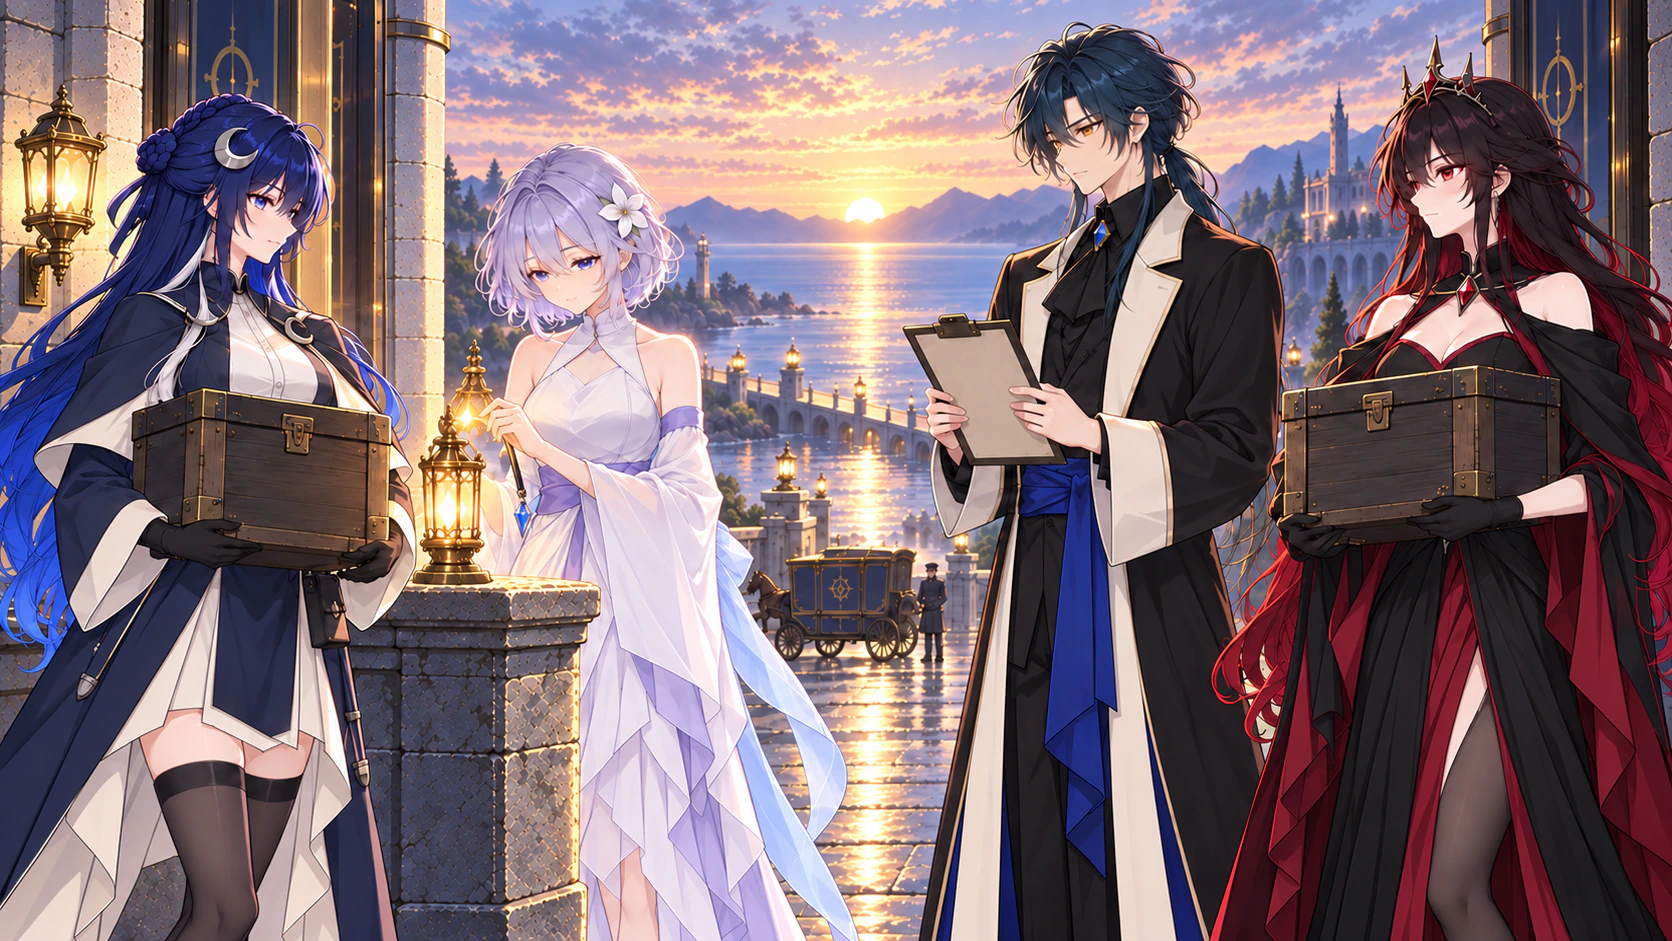
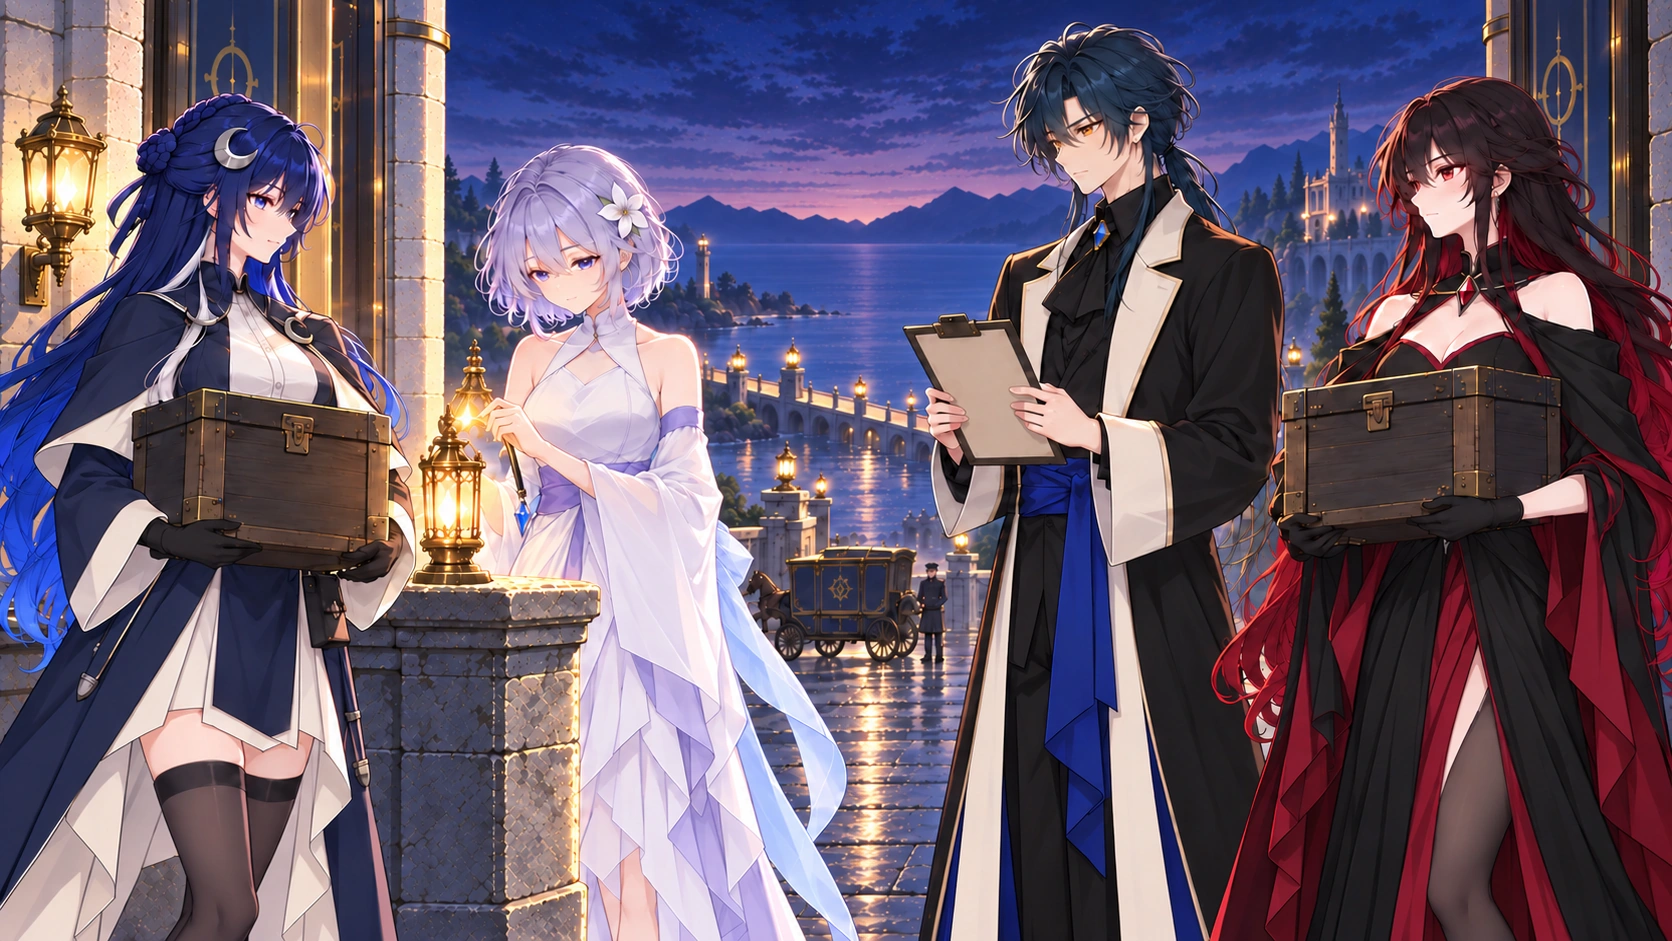
Repair A CG continuity and ending exterior bindings
Replace the three reviewed runtime WebP images without re-encoding, update only their byte/hash contracts, suppress the seven-crystal CG for incomplete-core scenes, and retain the exterior backdrop for ending turns 15-18. Add four focused presentation regressions. Preserve authored prose, rules, saves, loading transitions, B articulated gait, C, and root packaging.

Verified all 787 source files, exact six-path preimages, 26,496 state comparisons, 57 GAL samples, image decode and remote-restored backups. Full checks pass: A 328 plus 9 existing skips, B 106, C 141. Root build and 377 static references pass; B/C output is byte-identical to the parent. Candidate-only fast-forward; browser acceptance remains a separate review.

diff --git a/apps/a/test/story-cg-continuity-r1.test.js b/apps/a/test/story-cg-continuity-r1.test.js
@@ -1,0 +1,59 @@
+import test from 'node:test';
+import assert from 'node:assert/strict';
+import fs from 'node:fs';
+import vm from 'node:vm';
+import { DIALOGUES, ENEMIES, FLOORS, GRID_SIZE, ITEMS } from '../src/game/data.js';
+import { applyDemoTenFloorContent } from '../src/game/demo-10-floor-content.js';
+import { applyDemoTwentyFloorContent } from '../src/game/demo-20-floor-content.js';
+import { applyDemoThirtyFloorContent } from '../src/game/demo-30-floor-content.js';
+import { resolveStoryDialogue, CORE_BOSS_IDS } from '../src/game/story-dialogue-facts.js';
+import { createGalPreviewStoryState, GAL_PREVIEW_ORDER } from '../src/game/story-preview-context.js';
+const c={enemies:ENEMIES,floors:FLOORS,dialogues:DIALOGUES,gridSize:GRID_SIZE,items:ITEMS};
+applyDemoTenFloorContent(c);applyDemoTwentyFloorContent(c);applyDemoThirtyFloorContent(c);
+const main=fs.readFileSync(new URL('../src/main.js',import.meta.url),'utf8');
+const ctx=vm.createContext({document:{body:{dataset:{theme:'night'}}}});
+const tables=['GAL_BACKDROPS','GAL_DIALOGUE_BACKDROPS','GAL_FLOOR_BACKDROPS'].map(n=>main.match(new RegExp(`const ${n} = Object\\.freeze\\(\\{[\\s\\S]*?\\n\\}\\);`))[0]).join('\n');
+const names=['galBackdropFor','galCgFor','rememberGalLine'];
+const fns=names.map(n=>main.match(new RegExp(`function ${n}\\([\\s\\S]*?\\n\\}`))[0]).join('\n');
+vm.runInContext(`const galArtUrl=p=>p;const galHistory=[];const GAL_HISTORY_LIMIT=600;let saves=0;const persistGalOnlyHistory=()=>{saves++};${tables}\n${fns}\nObject.assign(this,{galBackdropFor,galCgFor,rememberGalLine,galHistory});`,ctx);
+const state=n=>({cores:n,floorStates:[{defeatedBossIds:CORE_BOSS_IDS.slice(0,n)}],council:{completed:false}});
+const resolve=(id,s,n=30)=>resolveStoryDialogue(id,DIALOGUES[id],s,{floors:FLOORS.slice(0,n)});
+const plain=d=>JSON.parse(JSON.stringify(d, (k,v)=>['cg','cgHold','backdrop'].includes(k)?undefined:v));
+
+test('all integer core counts 0..7 gate the seven-crystal CG without mutating state or authored source',()=>{
+ const original=JSON.stringify(DIALOGUES.queenPhaseDemo);
+ for(let n=0;n<=7;n++)for(const count of [10,20,30]){
+  const s=state(n);const before=JSON.stringify(s);const d=resolve('queenPhaseDemo',s,count);
+  for(const index of [4,5])assert.equal(Boolean(ctx.galCgFor(d.turns,index)),n===7,`${count}:${n}:${index}`);
+  assert.equal(JSON.stringify(s),before);assert.equal(JSON.stringify(DIALOGUES.queenPhaseDemo),original);
+  assert.equal(d.turns.length,6);assert.match(d.turns[4].text,n===7?/七枚核心/:new RegExp(`已收回的${n}枚核心`));
+ }
+});
+test('30F ending turns 15..18 stay outside before, during, and after the dispatch CG for every core count',()=>{
+ for(let n=0;n<=7;n++){
+  const d=resolve('ending',state(n));assert.equal(d.turns.length,18);
+  for(let i=14;i<=17;i++)assert.match(ctx.galBackdropFor('ending',d,d.turns[i]),/theme-ember-lighthouse\.webp$/);
+  assert.equal(ctx.galCgFor(d.turns,17),null,'the final outside frame proves fallback');
+  assert.match(ctx.galBackdropFor('ending',d,d.turns[13]),/writein/,'earlier interior remains');
+ }
+ for(const count of [10,20]){const d=resolve('ending',state(5),count);assert.equal(d.turns.length,2);assert.ok(d.turns.every(t=>t.backdrop===undefined));}
+});
+test('previously displayed history text stays frozen after core progress and a separately keyed revisit',()=>{
+ const s=state(5),first=resolve('queenPhaseDemo',s);const oldText=first.turns[4].text;
+ ctx.rememberGalLine('queenPhaseDemo:instance-1:4','旁白',oldText);
+ s.cores=7;const next=resolve('queenPhaseDemo',s);
+ ctx.rememberGalLine('queenPhaseDemo:instance-2:4','旁白',next.turns[4].text);
+ assert.equal(ctx.galHistory[0].text,oldText);assert.match(ctx.galHistory[0].text,/5枚/);assert.match(ctx.galHistory[1].text,/七枚/);
+ assert.equal(ctx.galCgFor(first.turns,4),null,'earlier resolved frame also stays frozen');
+ assert.ok(ctx.galCgFor(next.turns,4));
+ assert.match(main,/const historyKey = `\$\{historySceneKey\}:\$\{index\}`/);
+});
+test('all 57 labelled GAL scenes resolve without game mutation; the seven-core sample keeps its accepted CG',()=>{
+ const game=state(0);game.storySeen=['floor2'];const before=JSON.stringify(game);
+ assert.equal(GAL_PREVIEW_ORDER.length,57);
+ for(const id of GAL_PREVIEW_ORDER){const s=createGalPreviewStoryState(id);const old=JSON.stringify(s);const d=resolve(id,s);assert.ok(d.turns.length);assert.equal(JSON.stringify(s),old);}
+ const s=createGalPreviewStoryState('queenPhaseDemo');assert.equal(s.cores,7);assert.ok(ctx.galCgFor(resolve('queenPhaseDemo',s).turns,4));
+ assert.equal(JSON.stringify(game),before);
+ const source=fs.readFileSync(new URL('../src/game/story-preview-context.js',import.meta.url),'utf8');assert.doesNotMatch(source,/(?:localStorage|sessionStorage)\s*(?:\.|\[)|(?:saveGame|autoSave)\s*\(/);
+ assert.match(main,/requestedGalPreviewDialogue\(\) \? createGalPreviewStoryState\(dialogueId\) : state/);
+});

diff --git a/apps/a/src/game/story-dialogue-facts.js b/apps/a/src/game/story-dialogue-facts.js
@@ -196,6 +196,9 @@ export function resolveStoryDialogue(id, source, state, { floors = [] } = {}) {
     case 'queenPhaseDemo':
       put(3, '璃，船长的回话和我们带来的记录都还在，眼前这些燃烧的名字只是幻象。我会扯开锁链，你看准核心。');
       put(4, `诺克缇娅反手扯断束缚自己的黑纹，为璃撕开一道狭窄缺口。${cores}沿缺口照亮黯星的裂缝。`);
+      // This accepted CG visibly contains all seven recovered crystals. Keep
+      // partial-core routes truthful without altering their game-state facts.
+      if (!f.allCores) { delete turns[4].cg; delete turns[4].cgHold; }
       break;
     case 'bossQueenPostDemo':
       put(1, `诺克缇娅逐个触碰那些名字。${cores}的光照进卷册，四十七块姓名牌渐渐稳住。她又看了一遍船长的抵达时刻，没有移开手。`);
@@ -329,6 +332,9 @@ export function resolveStoryDialogue(id, source, state, { floors = [] } = {}) {
       put(11, '修好的护送印挂入口，完成的校验簿留桌上；若修好的是接力电容，就拆成小灯，交给值夜人和信使。哪一样还没做完，先把位置空着。');
       put(12, '契约和会战的记录夹在前面了。能完成见证的人，纸笔留给她；其他空页先收好，等她自己想说的话。');
       put(15, f.allCores ? '璃抱起最上面一只信匣，试着哼出重新完整的七段咏唱。最后一音落稳时，她把信匣往怀里又收了收，走向门外的邮车。' : `璃抱起最上面一只信匣，哼了两声。已经取回的${f.coreCount}段咏唱轻轻回应，缺下的音节她没有勉强接上。等信送到，她还要回侧厅，把遗落的核心带回来。`);
+      // Dispatch remains outside after its three-turn CG ends. Explicit
+      // turn bindings also keep later crops or suppressed CGs at the gate.
+      for (let index = 14; index <= 17; index += 1) turns[index] = { ...turns[index], backdrop: 'emberLighthouse' };
       break;
     default: break;
   }
